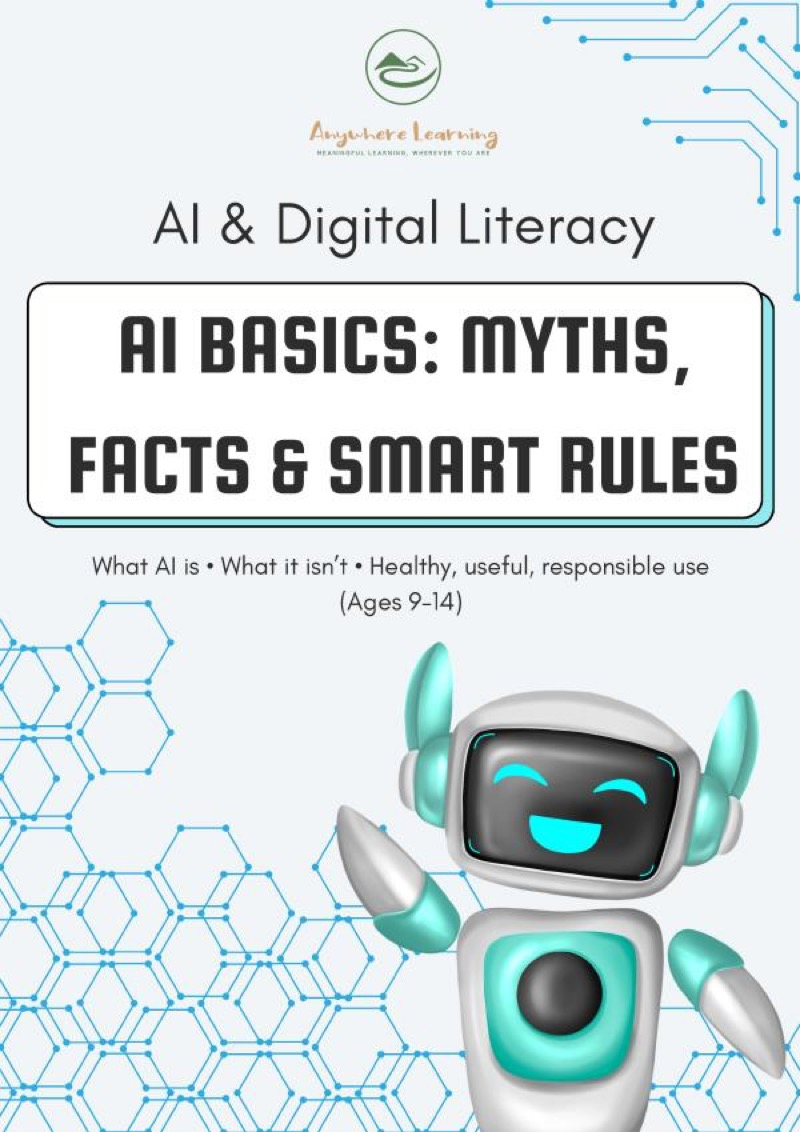
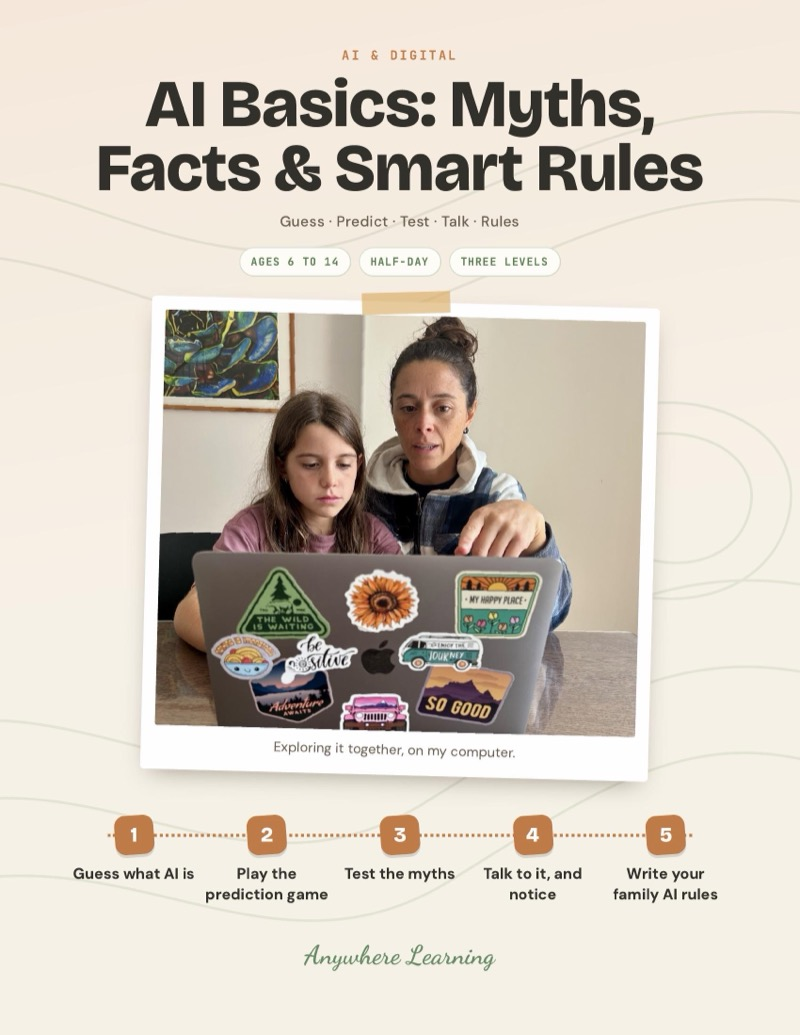
AI Basics: redesigned guide, prediction game, myths tested at the screen, family AI rules, daughter-chatting-for-fun example, laptop photo, ages 6-14

diff --git a/lib/product-descriptions.ts b/lib/product-descriptions.ts
@@ -1266,24 +1266,24 @@ export const productDescriptions: Record<string, ProductDescription> = {
   // ═══════════════════════════════════════════════════════════════════
   'ai-basics': {
     opening:
-      'Help kids understand what AI actually is, what it isn\'t, and how to use it responsibly. Activities cover how AI works, common myths vs reality, healthy AI interactions, and setting smart rules for AI use. The foundation every kid needs before using any AI tool.',
+      'Your kid finds out what AI really is: a tool that predicts words from patterns, not a person and not a know-it-all. They guess, play a prediction game, test common myths at the screen, notice what happens when they talk to it like a friend and write the family AI rules together.',
     whatsIncluded: [
-      'What AI actually is, and what it isn\'t',
-      'Common AI myths vs reality exploration',
-      'Healthy and useful AI interaction practice',
-      'Smart rules and boundaries for AI use',
-      'Reflection prompts and family discussion guides',
+      'Five steps, from guessing what AI is to writing your family AI rules',
+      'How it works, Myth or fact?, Person or tool? and Rule ideas cards',
+      'The prediction game: guess the next word, the way AI does',
+      'Our family AI rules, to sign and put on the fridge',
+      'Three levels per step, from ages 6 to 14',
     ],
-    skillTags: ['STEM', 'AI Literacy', 'Critical Thinking', 'Digital Citizenship'],
+    skillTags: ['AI Literacy', 'Critical Thinking', 'Digital Citizenship', 'Online Safety', 'Science'],
     insideTheLearning: {
       lead:
-        'Your child sorts out what AI actually is from what people claim it is, myth by myth, then writes the rules your family will use it by. The point is accurate understanding rather than hype in either direction, and rules they helped set are rules they will actually keep.',
+        'AI chat tools predict the next words from patterns in enormous amounts of writing. That is why they sound so human, and why they can sound sure and still be wrong. Your kid tests it for themselves, sees what it can and cannot do, and helps write the rules your family uses it by.',
       skills: [
-        { skill: 'AI Literacy', where: 'Separating what the technology really does from the hype, one myth at a time' },
-        { skill: 'Critical Thinking', where: 'Questioning an answer and checking it instead of taking it at face value' },
-        { skill: 'Digital Citizenship', where: 'Working out what safe and respectful use looks like in your house' },
-        { skill: 'Decision-Making', where: 'Setting the boundaries and smart rules they will hold themselves to' },
-        { skill: 'Communication', where: 'Explaining back, in their own words, what AI is and what it is not' },
+        { skill: 'AI Literacy', where: 'Understanding AI as a tool that predicts words, not a person' },
+        { skill: 'Critical Thinking', where: 'Testing common myths instead of believing them' },
+        { skill: 'Digital Citizenship', where: 'Writing family rules for using AI honestly' },
+        { skill: 'Online Safety', where: 'Knowing what personal information never goes into an AI' },
+        { skill: 'Science', where: 'How patterns in data turn into answers' },
       ],
     },
     format: 'Project Guide',

diff --git a/scripts/seed.ts b/scripts/seed.ts
@@ -61,7 +61,7 @@ async function seed() {
 
 
     // === AI & DIGITAL LITERACY (sortOrder 70–79) ===
-    { name: 'AI Basics: Myths, Facts & Smart Rules', slug: 'ai-basics', description: 'Understand what AI is and how to use it wisely.', shortDescription: 'AI basics for kids.', priceCents: 599, compareAtPriceCents: null, stripePriceId: 'price_1TFcTfAMzOBftCntjVdNUY97', blobUrl: '', imageUrl: '/products/ai-basics.jpg', category: 'ai-literacy', isBundle: false, bundleProductIds: null, activityCount: null, ageRange: 'Ages 9\u201314', sortOrder: 70, active: true },
+    { name: 'AI Basics: Myths, Facts & Smart Rules', slug: 'ai-basics', description: 'Your kid finds out what AI really is: a tool that predicts words from patterns, not a person and not a know-it-all. They guess, play a prediction game, test common myths at the screen, notice what happens when they talk to it like a friend and write the family AI rules together.', shortDescription: 'AI basics for kids ages 6-14: how AI really works, myths tested at the screen, why it sounds human, and family AI rules you write together.', priceCents: 599, compareAtPriceCents: null, stripePriceId: 'price_1TFcTfAMzOBftCntjVdNUY97', blobUrl: '', imageUrl: '/products/ai-basics.jpg', category: 'ai-literacy', isBundle: false, bundleProductIds: null, activityCount: null, ageRange: 'Ages 9\u201314', sortOrder: 70, active: true },
     { name: 'Algorithm Awareness', slug: 'algorithm-awareness', description: 'Understand how algorithms shape what we see online.', shortDescription: 'Algorithm awareness.', priceCents: 599, compareAtPriceCents: null, stripePriceId: 'price_1TFcTfAMzOBftCntwgbhXS2c', blobUrl: '', imageUrl: '/products/algorithm-awareness.jpg', category: 'ai-literacy', isBundle: false, bundleProductIds: null, activityCount: null, ageRange: 'Ages 9\u201314', sortOrder: 71, active: true },
     { name: 'Bias & Fairness Lab', slug: 'bias-fairness-lab', description: 'Explore bias in AI systems.', shortDescription: 'AI bias and fairness.', priceCents: 599, compareAtPriceCents: null, stripePriceId: 'price_1TFcTgAMzOBftCnty4weOSMp', blobUrl: '', imageUrl: '/products/bias-fairness-lab.jpg', category: 'ai-literacy', isBundle: false, bundleProductIds: null, activityCount: null, ageRange: 'Ages 9\u201314', sortOrder: 72, active: true },
     { name: 'Build Your Own AI Helper', slug: 'build-ai-helper', description: 'Your kid designs an AI helper for one real job, like answering questions with facts or drafting messages, and writes the rules it has to follow. Then they set it up with a grown-up, test it on real questions, fix what goes wrong and decide honestly whether it is worth using.', shortDescription: 'STEM AI project for kids ages 9-14: design an AI helper for one real job, write its rules, set it up with a grown-up, test it and fix it.', priceCents: 599, compareAtPriceCents: null, stripePriceId: 'price_1TFcTgAMzOBftCnt2rlB7hz4', blobUrl: '', imageUrl: '/products/build-ai-helper.jpg', category: 'ai-literacy', isBundle: false, bundleProductIds: null, activityCount: null, ageRange: 'Ages 9\u201314', sortOrder: 73, active: true },

diff --git a/lib/fallback-products.ts b/lib/fallback-products.ts
@@ -812,20 +812,20 @@ export const fallbackProducts: FallbackProduct[] = [
     name: "AI Basics: Myths, Facts & Smart Rules",
     slug: "ai-basics",
     description:
-      "Help kids understand what AI actually is, what it isn't, and how to use it responsibly. Activities cover how AI works, common myths vs reality, healthy and useful AI interactions, and setting smart rules for AI use at home. Foundational STEM technology literacy for the AI era.",
+      "Your kid finds out what AI really is: a tool that predicts words from patterns, not a person and not a know-it-all. They guess, play a prediction game, test common myths at the screen, notice what happens when they talk to it like a friend and write the family AI rules together.",
     shortDescription:
-      "STEM technology activity for kids ages 9-14: what AI really is, common myths vs facts, and smart rules for responsible use at home.",
+      "AI basics for kids ages 6-14: how AI really works, myths tested at the screen, why it sounds human, and family AI rules you write together.",
     priceCents: 599,
     compareAtPriceCents: null,
     stripePriceId: "price_1TLrq6AkIBECpwGmWfe238bd",
     blobUrl: "",
-    imageUrl: "/products/ai-basics.jpg",
-    previewFile: "Preview AI + Digital Literacy - AI BASICS MYTHS, FACTS & SMART RULES.pdf",
+    imageUrl: "/products/ai-basics.jpg?v=2",
+    previewFile: "Preview AI & Digital Literacy - AI BASICS MYTHS, FACTS & SMART RULES v3.pdf",
     category: "ai-literacy",
     isBundle: false,
     bundleProductIds: null,
     activityCount: null,
-    ageRange: "Ages 9–14",
+    ageRange: "Ages 6–14",
     sortOrder: 70,
     active: true,
     createdAt: new Date("2025-03-01"),

diff --git a/scripts/create-stripe-products.ts b/scripts/create-stripe-products.ts
@@ -48,7 +48,7 @@ const catalog = [
   { slug: 'travel-day', name: 'Travel Day Itinerary Challenge', priceCents: 599, description: 'Planning activity for kids ages 6-14: plan a real day out with must-dos, a timeline, a budget and a Plan B.' },
   { slug: 'write-like-a-pro', name: 'Write It Like a Pro', priceCents: 599, description: 'Writing for kids ages 6-14: pick a style, write for a real audience, edit, and revise. Seven writing styles, one finished piece.' },
   // ─── AI & Digital Literacy singles ($4.99) ───
-  { slug: 'ai-basics', name: 'AI Basics: Myths, Facts & Smart Rules', priceCents: 599, description: 'Understand what AI is, what it can do, and how to use it wisely.' },
+  { slug: 'ai-basics', name: 'AI Basics: Myths, Facts & Smart Rules', priceCents: 599, description: 'AI basics for kids ages 6-14: how AI really works, myths tested at the screen, why it sounds human, and family AI rules you write together.' },
   { slug: 'algorithm-awareness', name: 'Algorithm Awareness', priceCents: 599, description: 'Why Am I Seeing This? Understand how algorithms shape what we see.' },
   { slug: 'bias-fairness-lab', name: 'Bias & Fairness Lab', priceCents: 599, description: 'Explore bias in AI systems and why fairness matters.' },
   { slug: 'build-ai-helper', name: 'Build Your Own AI Helper', priceCents: 599, description: 'STEM AI project for kids ages 9-14: design an AI helper for one real job, write its rules, set it up with a grown-up, test it and fix it.' },

diff --git a/lib/skills.ts b/lib/skills.ts
@@ -42,7 +42,7 @@ export interface ProductSkills {
  */
 export const productSkills: Record<string, ProductSkills> = {
   "adventure-story-map": { canonical: ["Creative Writing","Storytelling","Planning","Narrative","Art"], families: ["communication-and-writing","creativity-and-making","critical-thinking-and-reasoning","nature-and-science"] },
-  "ai-basics": { canonical: ["AI Literacy","Communication","Critical Thinking","Decision-Making","Digital Citizenship"], families: ["communication-and-writing","critical-thinking-and-reasoning","tech-and-digital"] },
+  "ai-basics": { canonical: ["AI Literacy","Critical Thinking","Digital Citizenship","Online Safety & Privacy"], families: ["tech-and-digital","critical-thinking-and-reasoning"] },
   "algorithm-awareness": { canonical: ["Critical Thinking","Decision-Making","Digital Literacy","Reflection","Self-Direction"], families: ["critical-thinking-and-reasoning","planning-and-self-management","tech-and-digital"] },
   "backyard-campout-planner": { canonical: ["Measurement","Budgeting","Time Planning","Estimation","Organisation"], families: ["math-and-money"] },
   "bias-fairness-lab": { canonical: ["AI Literacy","Communication","Critical Thinking","Decision-Making","Empathy"], families: ["communication-and-writing","critical-thinking-and-reasoning","empathy-and-people","tech-and-digital"] },

diff --git a/lib/activity-blob-urls.ts b/lib/activity-blob-urls.ts
@@ -10,7 +10,7 @@
 
 export const ACTIVITY_BLOB_URLS: Record<string, string> = {
   "adventure-story-map": "https://xkj3tzlgu6ylgllk.public.blob.vercel-storage.com/Communication%20%26%20Writing%20-%20Adventure%20Story%20Map%20v7.pdf",
-  "ai-basics": "https://xkj3tzlgu6ylgllk.public.blob.vercel-storage.com/AI%20%26%20Digital%20Literacy%20-%20AI%20BASICS%20MYTHS%2C%20FACTS%20%26%20SMART%20RULES%20v2.pdf",
+  "ai-basics": "https://xkj3tzlgu6ylgllk.public.blob.vercel-storage.com/AI%20%26%20Digital%20Literacy%20-%20AI%20BASICS%20MYTHS%2C%20FACTS%20%26%20SMART%20RULES%20v3.pdf",
   "algorithm-awareness": "https://xkj3tzlgu6ylgllk.public.blob.vercel-storage.com/AI%20%26%20Digital%20Literacy%20-%20ALGORITHM%20AWARENESS%20WHY%20AM%20I%20SEEING%20THIS%20v2.pdf",
   "backyard-campout-planner": "https://xkj3tzlgu6ylgllk.public.blob.vercel-storage.com/Real-world%20math%20-%20Backyard%20Campout%20Planner%20v6.pdf",
   "bias-fairness-lab": "https://xkj3tzlgu6ylgllk.public.blob.vercel-storage.com/AI%20%26%20Digital%20Literacy%20-%20BIAS%20%26%20FAIRNESS%20LAB%20v2.pdf",
